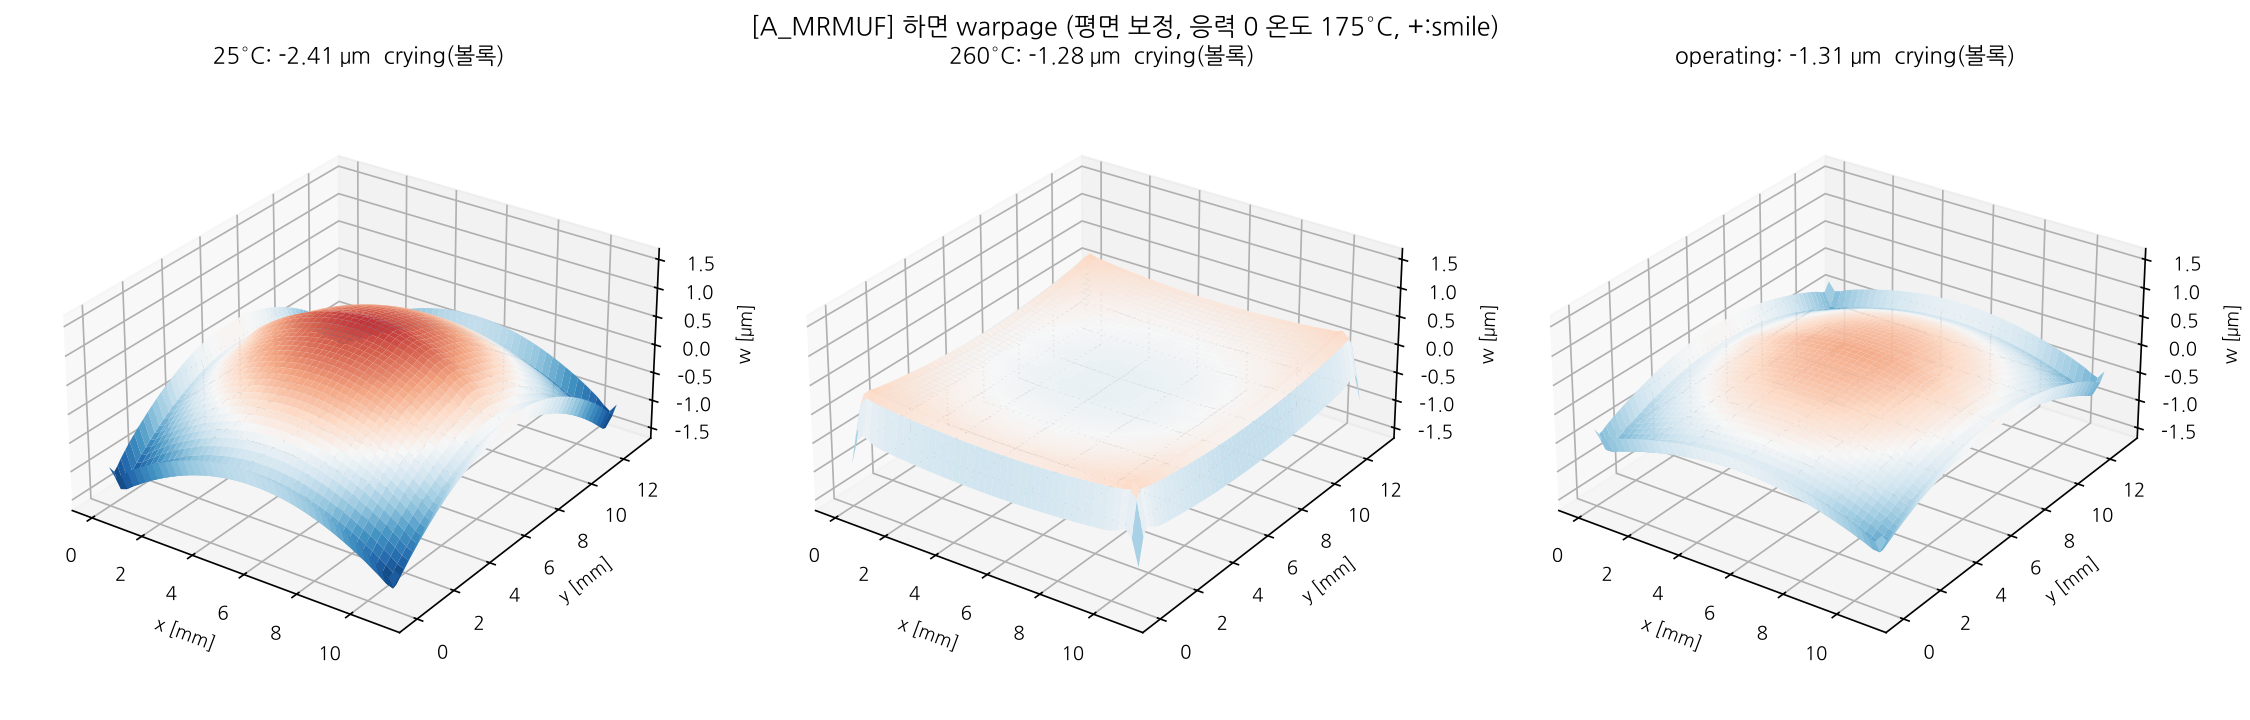
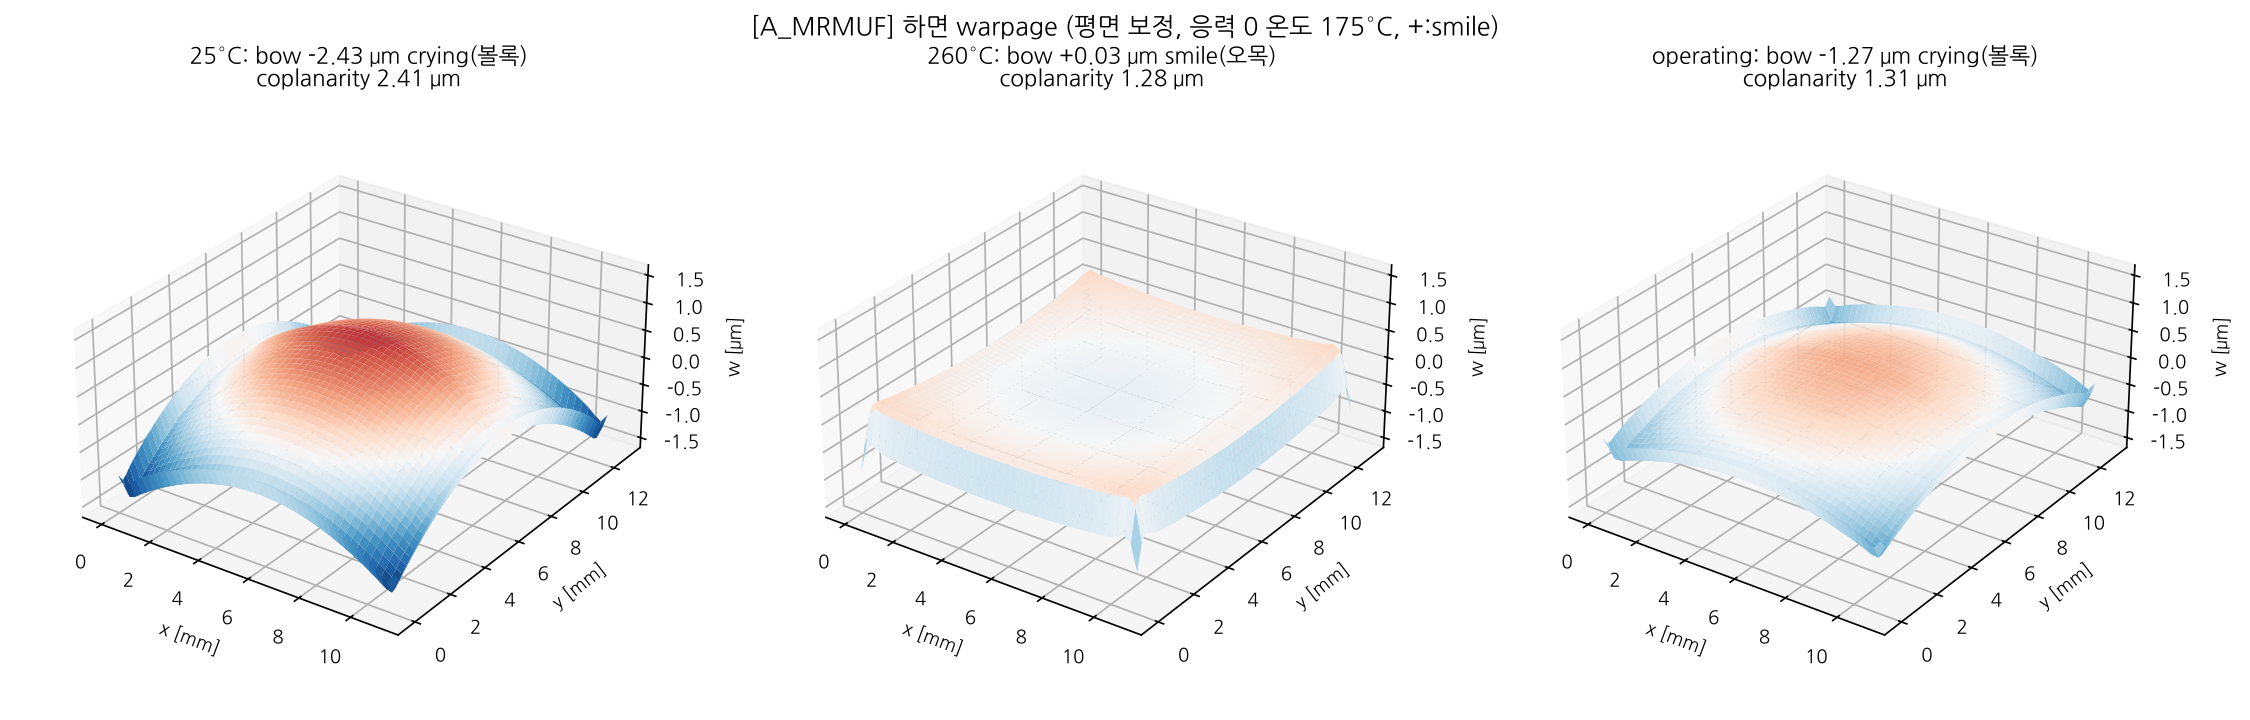
HBM4-8H: warpage 지표에 2차 곡면 bow 추가(국부 모서리 성분 분리), B 확정 결과
Claude-Session: https://claude.ai/code/session_01JhzTQGVurvCAmUSUWovvem

diff --git a/hbm4_fem/compare.py b/hbm4_fem/compare.py
@@ -9,15 +9,15 @@ NAME = {"A_MRMUF": "A: MR-MUF (top Si 노출)", "B_TCNCF": "B: TC-NCF", "C_MRMUF
 Rs = {json.load(open(f))["variant"]: json.load(open(f)) for f in sorted(glob.glob("out/summary_*.json"))}
 fig, axs = plt.subplots(1, 2, figsize=(13, 4.8))
 for v, R in Rs.items():
-    w = [R["warpage"][f"{t}°C"]["signed_um"] for t in P.SWEEP]
+    w = [R["warpage"][f"{t}°C"]["bow_um"] for t in P.SWEEP]
     axs[0].plot(P.SWEEP, w, "-o", ms=5, lw=2, color=COL[v], label=NAME[v])
     axs[0].annotate(f"{w[0]:+.2f}", (P.SWEEP[0], w[0]), xytext=(-34, 0), textcoords="offset points", fontsize=8, va="center")
     lay = [l for l in R["stress"]["25°C"] if "Bond" in l]
     axs[1].plot([R["stress"]["25°C"][l]["vm_max"] for l in lay], range(1, 9), "-o", ms=4, color=COL[v], label=NAME[v])
 axs[0].axhline(0, color="#888", lw=.8); axs[0].axvline(P.T_STRESSFREE, color="#888", lw=.8, ls=":")
 axs[0].text(P.T_STRESSFREE+2, axs[0].get_ylim()[1]*0.9, "stress-free 175°C", fontsize=8, color="#555")
-axs[0].set_xlabel("온도 [°C]"); axs[0].set_ylabel("하면 warpage [μm]  (+ smile / − crying)"); axs[0].legend(frameon=False, fontsize=9)
-axs[0].set_title("온도별 warpage (평면 보정 coplanarity × 부호)")
+axs[0].set_xlabel("온도 [°C]"); axs[0].set_ylabel("하면 bow [μm] (2차 곡면 피팅, + smile / - crying)"); axs[0].legend(frameon=False, fontsize=9)
+axs[0].set_title("온도별 전역 warpage (bow)")
 axs[1].set_yticks(range(1, 9)); axs[1].set_yticklabels([f"Bond_{i}" for i in range(1, 9)])
 axs[1].set_xlabel("von Mises max @25°C [MPa]"); axs[1].set_title("Bond층 응력 (상온)"); axs[1].legend(frameon=False, fontsize=9)
 fig.tight_layout(); fig.savefig("figs/compare_variants.png", dpi=150)
@@ -26,9 +26,9 @@ for v, R in Rs.items():
     s25, op = R["stress"]["25°C"], R["stress"]["operating"]
     si = lambda d, key: max(d[l][key] for l in d if "Die" in l)
     bd = lambda d, key: max(d[l][key] for l in d if "Bond" in l)
-    rows.append([v, R["thermal"]["Tmax"], R["warpage"]["25°C"]["signed_um"], R["warpage"]["260°C"]["signed_um"],
-                 R["warpage"]["operating"]["signed_um"], si(s25, "vm_max"), si(s25, "s1_max"), bd(s25, "peel_max"), bd(s25, "shear_max"),
+    rows.append([v, R["thermal"]["Tmax"], R["warpage"]["25°C"]["bow_um"], R["warpage"]["260°C"]["bow_um"],
+                 R["warpage"]["operating"]["bow_um"], si(s25, "vm_max"), si(s25, "s1_max"), bd(s25, "peel_max"), bd(s25, "shear_max"),
                  max(s25[l]["s1_max"] for l in s25 if "EMC" in l)])
-hdr = "| Variant | Tmax op [°C] | Warp 25°C [μm] | Warp 260°C [μm] | Warp op [μm] | Si σvm max 25°C [MPa] | Si σ1 max 25°C | Bond peel max 25°C | Bond τ max 25°C | EMC σ1 max 25°C |"
+hdr = "| Variant | Tmax op [°C] | Bow 25°C [μm] | Bow 260°C [μm] | Bow op [μm] | Si σvm max 25°C [MPa] | Si σ1 max 25°C | Bond peel max 25°C | Bond τ max 25°C | EMC σ1 max 25°C |"
 md = hdr + "\n|" + "---|"*10 + "\n" + "\n".join("| " + r[0] + " | " + " | ".join(f"{x:+.2f}" if 2 <= i <= 4 else f"{x:.1f}" for i, x in enumerate(r[1:], 1)) + " |" for r in rows)
 open("figs/summary_table.md", "w").write(md + "\n"); print(md)

diff --git a/hbm4_fem/post.py b/hbm4_fem/post.py
@@ -47,17 +47,23 @@ W = []
 for s in steps:
     w = s["DISP"][1][:nx*ny, 2].reshape(ny, nx)*1e3            # μm
     w = w - (A @ np.linalg.lstsq(A, w.ravel(), rcond=None)[0]).reshape(ny, nx); W.append(w)
+xm, ym = XX-P.FOOT[0]/2, YY-P.FOOT[1]/2
+A2 = np.c_[np.ones(XX.size), xm.ravel(), ym.ravel(), xm.ravel()**2, ym.ravel()**2, (xm*ym).ravel()]
 for lab, w in zip(labels, W):
     sign = np.sign(w[[0, 0, -1, -1], [0, -1, 0, -1]].mean() - w[ny//2, nx//2])
-    R["warpage"][lab] = dict(coplanarity_um=float(w.max()-w.min()), signed_um=float(sign*(w.max()-w.min())))
+    c = np.linalg.lstsq(A2, w.ravel(), rcond=None)[0]; wf = (A2 @ c).reshape(ny, nx)
+    bow = wf[[0, 0, -1, -1], [0, -1, 0, -1]].mean() - c[0]          # 2차 곡면: 모서리 평균 - 중심 (+ smile)
+    R["warpage"][lab] = dict(coplanarity_um=float(w.max()-w.min()), signed_um=float(sign*(w.max()-w.min())),
+                             bow_um=float(bow), kx=float(2*c[3]*1e-3), ky=float(2*c[4]*1e-3),
+                             local_um=float(np.ptp(w-wf)))
 sel = [0, len(P.SWEEP)-1, len(labels)-1]; lim = max(abs(W[i]).max() for i in sel)
 fig = plt.figure(figsize=(15, 4.8))
 for c, i in enumerate(sel):
     ax = fig.add_subplot(1, 3, c+1, projection="3d")
     ax.plot_surface(XX, YY, W[i], cmap="RdBu_r", vmin=-lim, vmax=lim, rstride=1, cstride=1, linewidth=0, antialiased=True)
     ax.set_zlim(-lim*1.2, lim*1.2); ax.set_xlabel("x [mm]"); ax.set_ylabel("y [mm]"); ax.set_zlabel("w [μm]")
-    r = R["warpage"][labels[i]]; shape = "smile(오목)" if r["signed_um"] > 0 else "crying(볼록)"
-    ax.set_title(f"{labels[i]}: {r['signed_um']:+.2f} μm  {shape}"); ax.view_init(28, -55); ax.set_box_aspect((1, 1.16, .55))
+    r = R["warpage"][labels[i]]; shape = "smile(오목)" if r["bow_um"] > 0 else "crying(볼록)"
+    ax.set_title(f"{labels[i]}: bow {r['bow_um']:+.2f} μm {shape}\ncoplanarity {r['coplanarity_um']:.2f} μm"); ax.view_init(28, -55); ax.set_box_aspect((1, 1.16, .55))
 fig.suptitle(f"[{V}] 하면 warpage (평면 보정, 응력 0 온도 {P.T_STRESSFREE:.0f}°C, +:smile)", fontsize=12); fig.tight_layout()
 fig.savefig(f"{FIG}/warpage3d_{V}.png", dpi=150); plt.close(fig)
 
